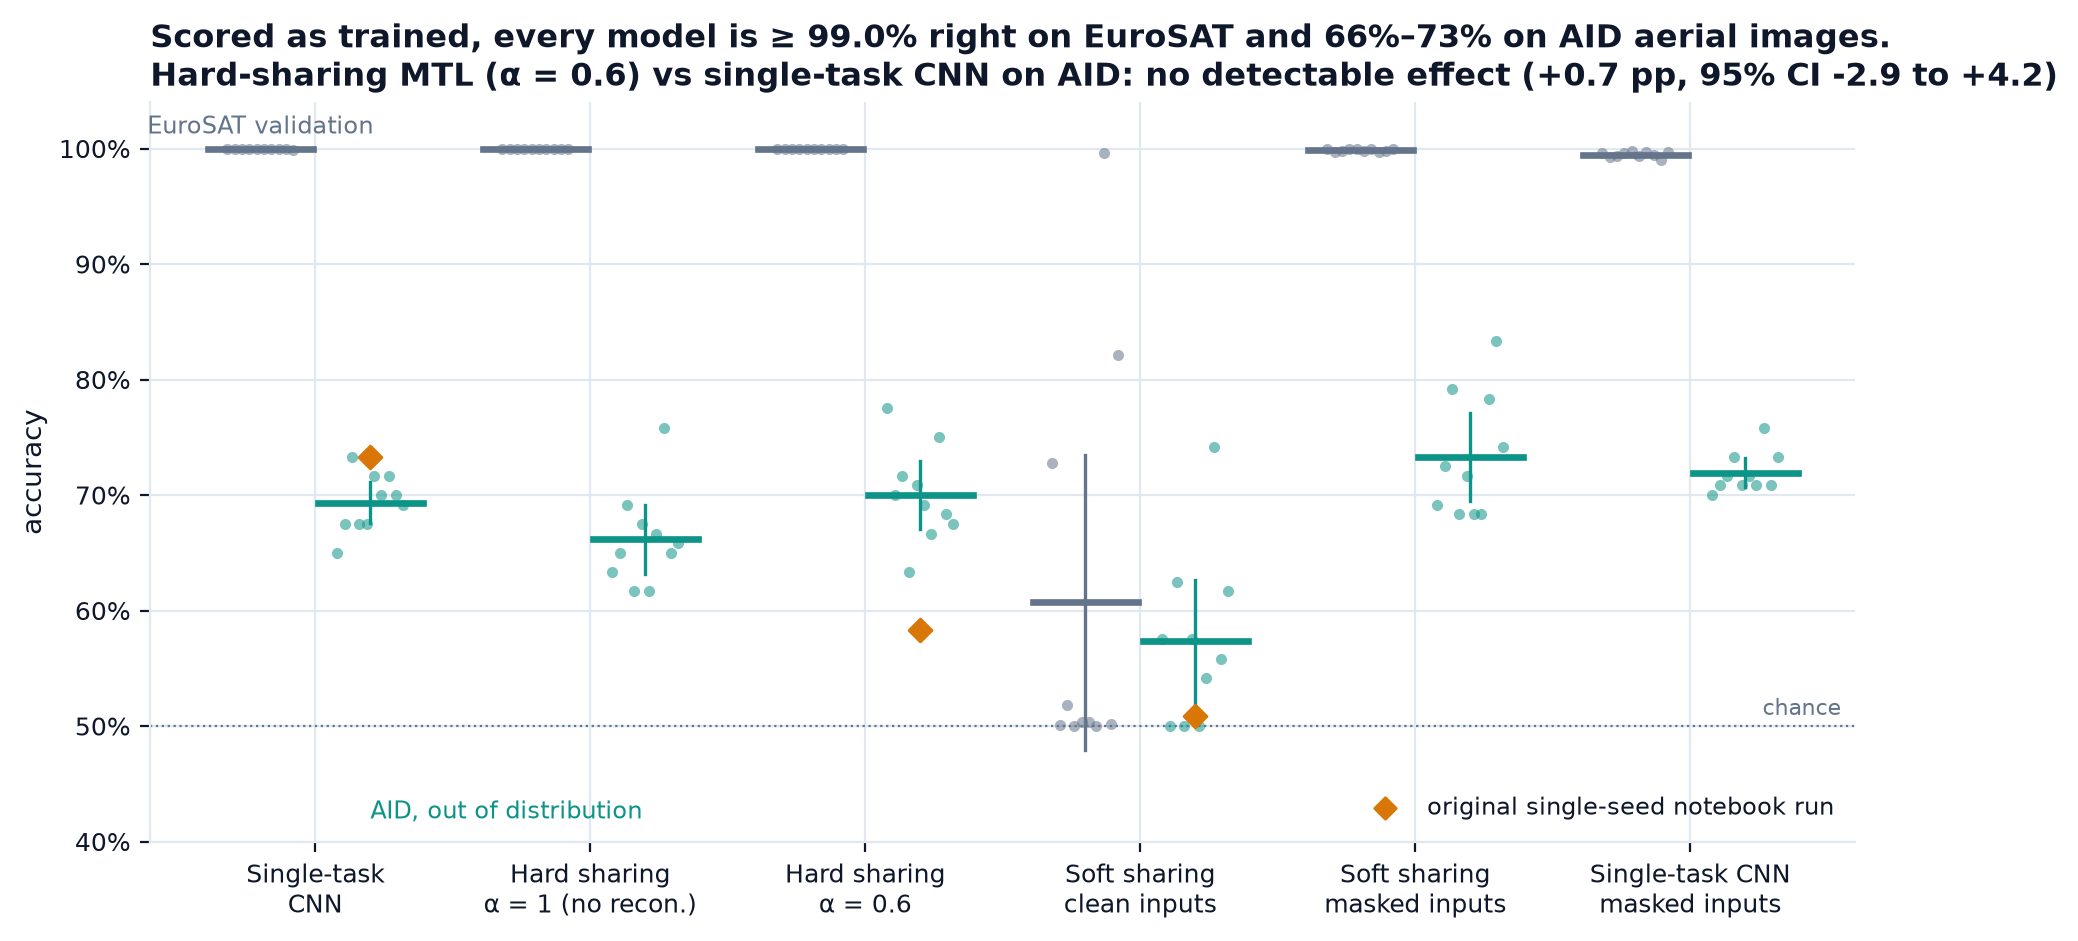
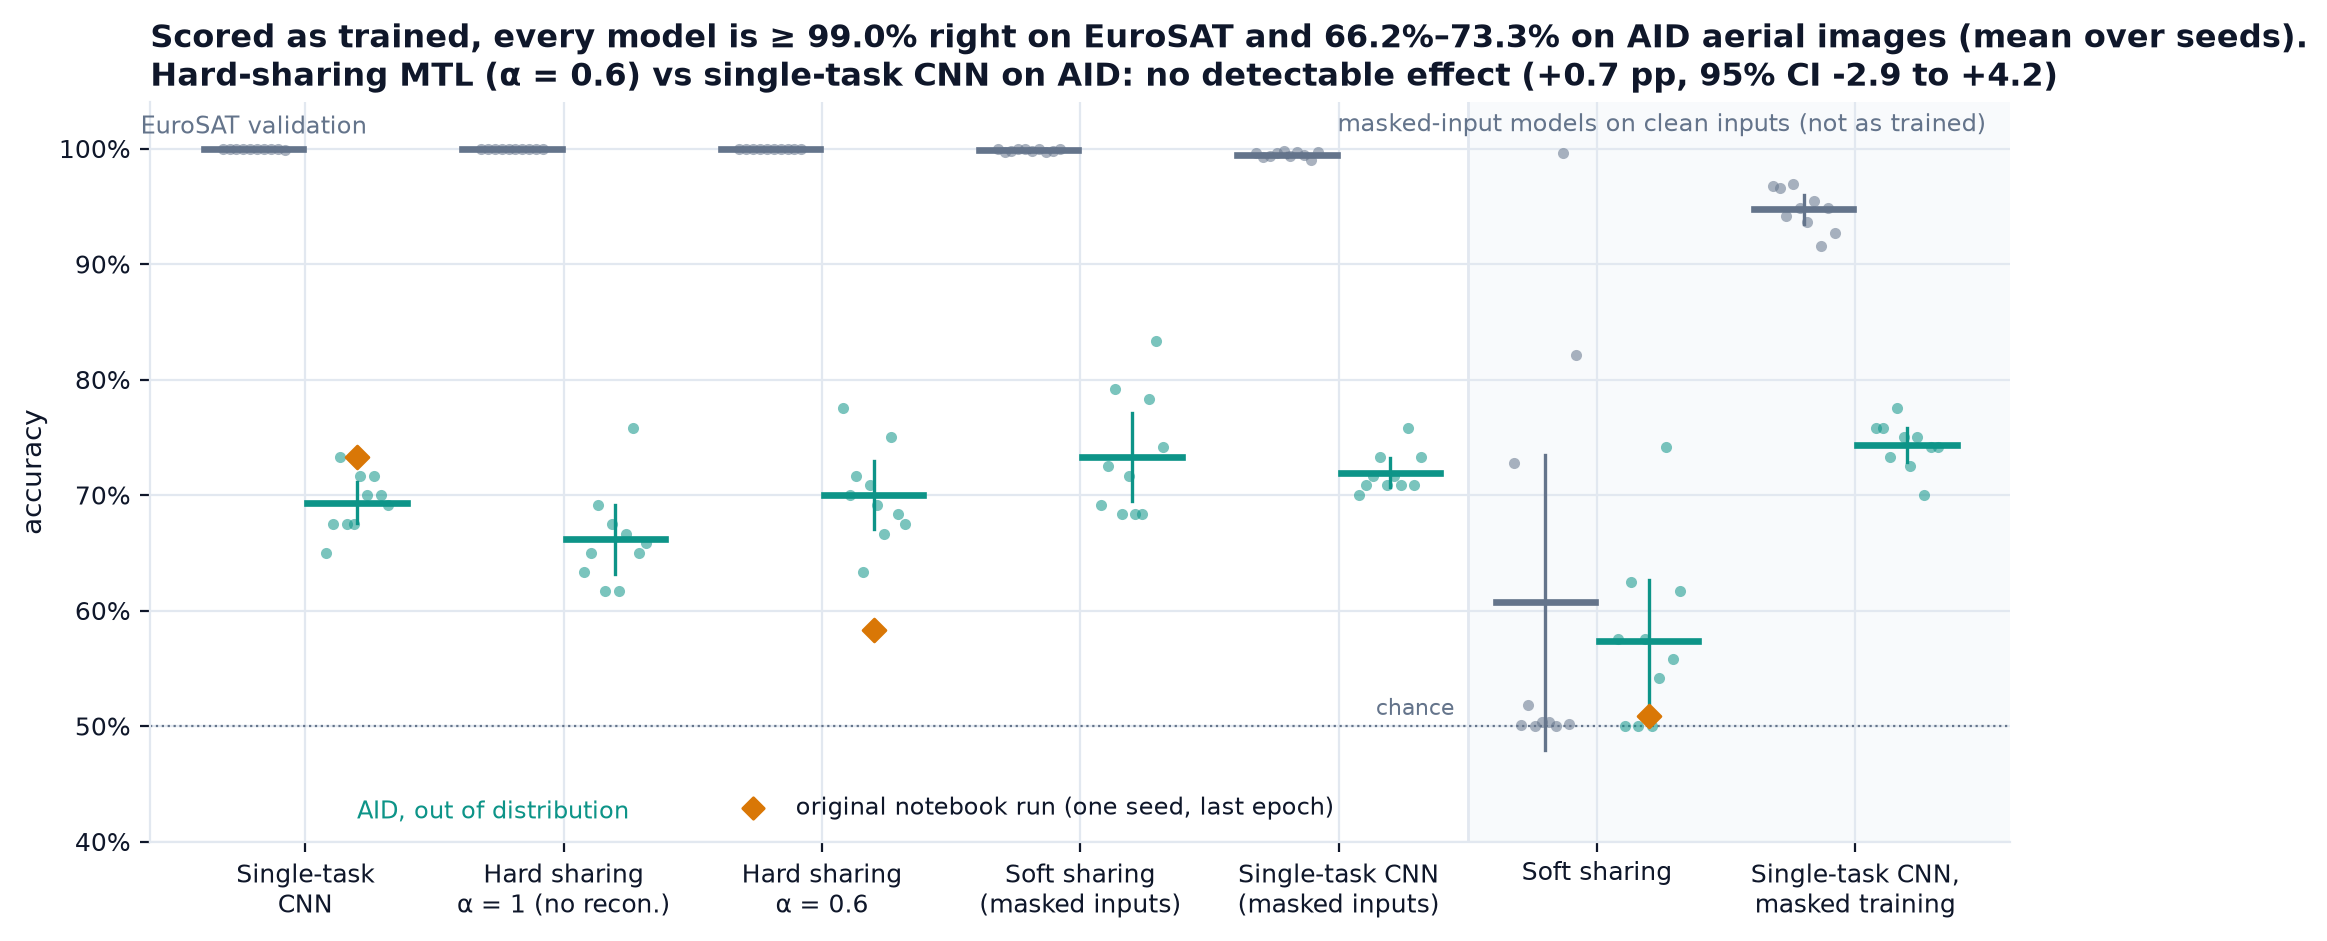
figures: hero sets apart the masked-input models scored on clean inputs; no rounded-up titles
The hero title claims every model scored as trained is >= 99% on EuroSAT, yet it plotted
soft sharing on clean inputs at about 50%. Those not-as-trained columns now sit in a shaded,
labelled panel, which also shows the masked-input CNN on clean inputs (the best mean AID
accuracy). Range and lower-bound titles print one decimal instead of rounding up.

diff --git a/src/mtl_eurosat/figures.py b/src/mtl_eurosat/figures.py
@@ -79,14 +79,18 @@ def _strip(ax, x: float, values: np.ndarray, colour: str, width: float = 0.12) -
         ax.plot([x, x], [lo, hi], color=colour, lw=1.2, zorder=4)
 
 
-# (variant, validation metric, AID metric, label)
+# (variant, validation metric, AID metric, label). The first columns score every model on
+# the inputs it was trained on; the last ones score the two masked-input models on clean images.
 HERO = (
     ("cnn", "val_acc", "ood_acc", SHORT["cnn"]),
     ("hard_a1.0", "val_acc", "ood_acc", SHORT["hard_a1.0"]),
     ("hard_a0.6", "val_acc", "ood_acc", SHORT["hard_a0.6"]),
-    ("soft", "val_acc", "ood_acc", "Soft sharing\nclean inputs"),
-    ("soft", "val_acc_masked", "ood_acc_masked", "Soft sharing\nmasked inputs"),
-    ("cnn_masked", "val_acc_masked", "ood_acc_masked", "Single-task CNN\nmasked inputs"),
+    ("soft", "val_acc_masked", "ood_acc_masked", "Soft sharing\n(masked inputs)"),
+    ("cnn_masked", "val_acc_masked", "ood_acc_masked", "Single-task CNN\n(masked inputs)"),
+)
+HERO_CLEAN = (
+    ("soft", "val_acc", "ood_acc", "Soft sharing"),
+    ("cnn_masked", "val_acc", "ood_acc", "Single-task CNN,\nmasked training"),
 )
 
 
@@ -95,8 +99,23 @@ def hero(rows: list[dict], out: Path, title: str) -> Path:
     nb = analysis.notebook_run()
     notebook = {("cnn", "ood_acc"): nb["baseline"], ("hard_a0.6", "ood_acc"): nb["mtl"]}
     notebook[("soft", "ood_acc")] = nb["softshare"]
-    cols = [c for c in HERO if any(r["variant"] == c[0] for r in rows)]
-    fig, ax = plt.subplots(figsize=(11, 4.8))
+    run = {r["variant"] for r in rows}
+    cols = [c for c in HERO if c[0] in run]
+    clean = [c for c in HERO_CLEAN if c[0] in run]
+    split = len(cols) - 0.5
+    cols += clean
+    fig, ax = plt.subplots(figsize=(12, 4.8))
+    if clean:  # not as trained: set apart so the title's "scored as trained" stays true
+        ax.axvspan(split, len(cols) - 0.4, color="#f8fafc", zorder=0)
+        ax.axvline(split, color=GRID, lw=1)
+        ax.text(
+            (split + len(cols) - 1) / 2,
+            1.015,
+            "masked-input models on clean inputs (not as trained)",
+            color=SLATE,
+            fontsize=8.5,
+            ha="center",
+        )
     for i, (name, val_key, ood_key, _) in enumerate(cols):
         _strip(ax, i - 0.2, analysis.column(rows, name, val_key), SLATE)
         _strip(ax, i + 0.2, analysis.column(rows, name, ood_key), TEAL)
@@ -105,14 +124,16 @@ def hero(rows: list[dict], out: Path, title: str) -> Path:
     ax.set_xticks(range(len(cols)), [c[3] for c in cols])
     ax.set_ylim(0.4, 1.04)
     ax.axhline(0.5, color=SLATE, lw=0.8, ls=":")
-    ax.text(len(cols) - 0.45, 0.505, "chance", color=SLATE, fontsize=8, ha="right", va="bottom")
+    ax.text(split - 0.05, 0.505, "chance", color=SLATE, fontsize=8, ha="right", va="bottom")
     _pct(ax)
     ax.set_ylabel("accuracy")
     ax.set_xlim(-0.6, len(cols) - 0.4)
     ax.text(-0.2, 1.013, "EuroSAT validation", color=SLATE, fontsize=8.5, ha="center")
     ax.text(0.2, 0.42, "AID, out of distribution", color=TEAL, fontsize=8.5, ha="left")
-    ax.scatter([], [], marker="D", s=30, color=AMBER, label="original single-seed notebook run")
-    ax.legend(loc="lower right", fontsize=8.5)
+    ax.scatter(
+        [], [], marker="D", s=30, color=AMBER, label="original notebook run (one seed, last epoch)"
+    )
+    ax.legend(loc="lower left", bbox_to_anchor=(0.3, 0.0), fontsize=8.5)  # clear of the dots
     ax.set_title(title, fontsize=11.5)
     return _save(fig, "hero.png", out)
 
@@ -189,8 +210,8 @@ def per_group(rows: list[dict], out: Path) -> Path:
     forest = [s[n]["ood_acc_Forest"]["mean"] for n in names]
     resid = [s[n][f"ood_acc_{g}"]["mean"] for n in names for g in list(GROUPS)[1:]]
     ax.set_title(
-        f"AID residential scenes: ≥ {min(resid):.0%} right; AID forests:"
-        f" {min(forest):.0%}–{max(forest):.0%} right",
+        f"AID residential scenes: ≥ {min(resid):.1%} right; AID forests:"
+        f" {min(forest):.1%}–{max(forest):.1%} right",
         fontsize=11,
     )
     return _save(fig, "per_group.png", out)
@@ -346,7 +367,7 @@ def hero_title(rows: list[dict], comp: dict) -> str:
     r = analysis.as_trained_range(rows)
     return (
         f"Scored as trained, every model is ≥ {r['val_min']:.1%} right on EuroSAT"
-        f" and {r['ood_lo']:.0%}–{r['ood_hi']:.0%} on AID aerial images.\n"
+        f" and {r['ood_lo']:.1%}–{r['ood_hi']:.1%} on AID aerial images (mean over seeds).\n"
         f"Hard-sharing MTL (α = 0.6) vs single-task CNN on AID: {effect_phrase(comp['mtl_vs_cnn'])}"
     )
 
